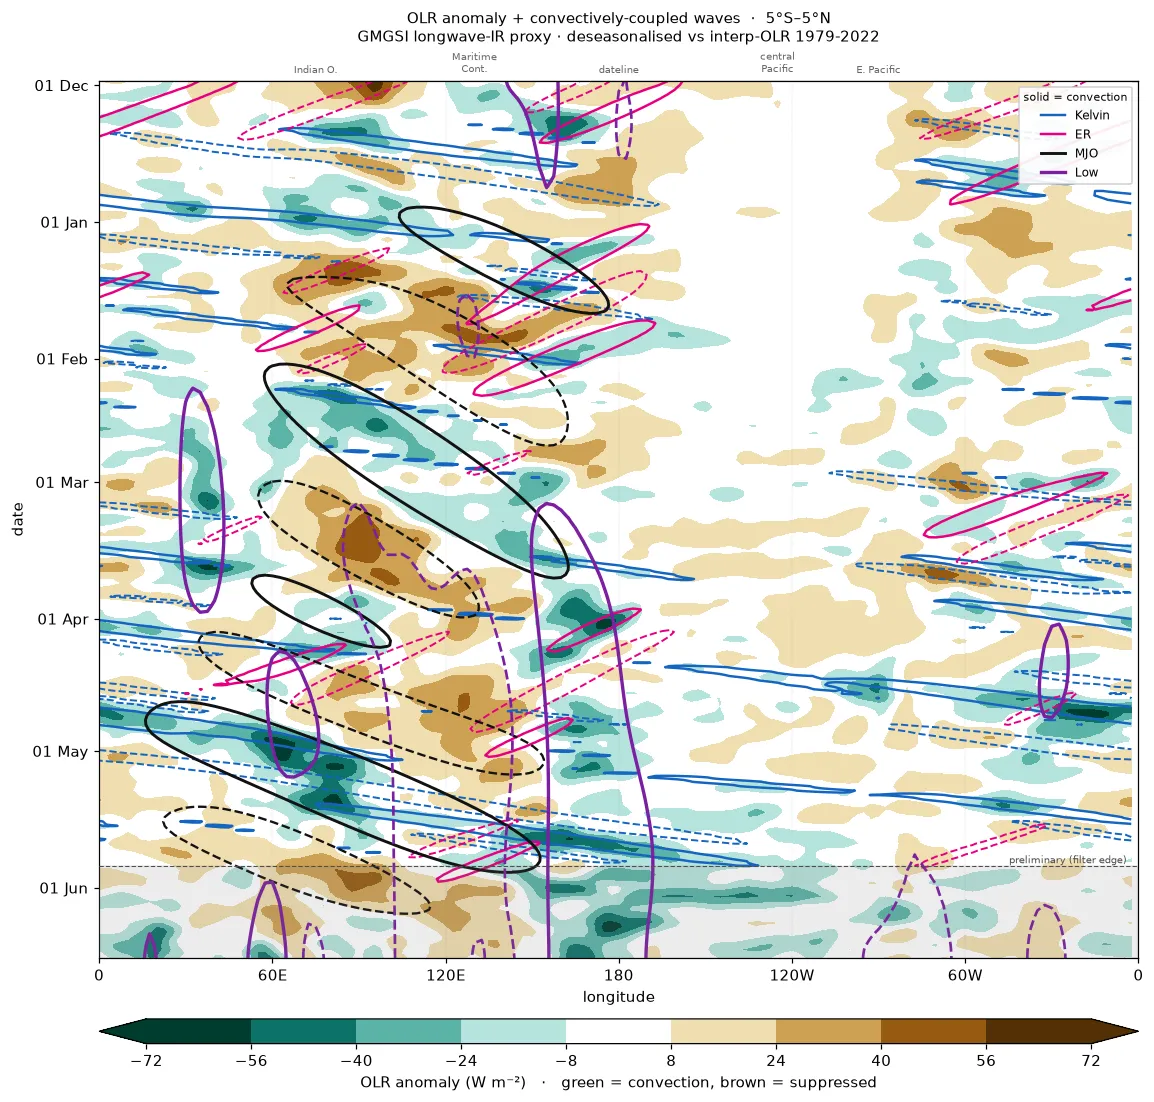
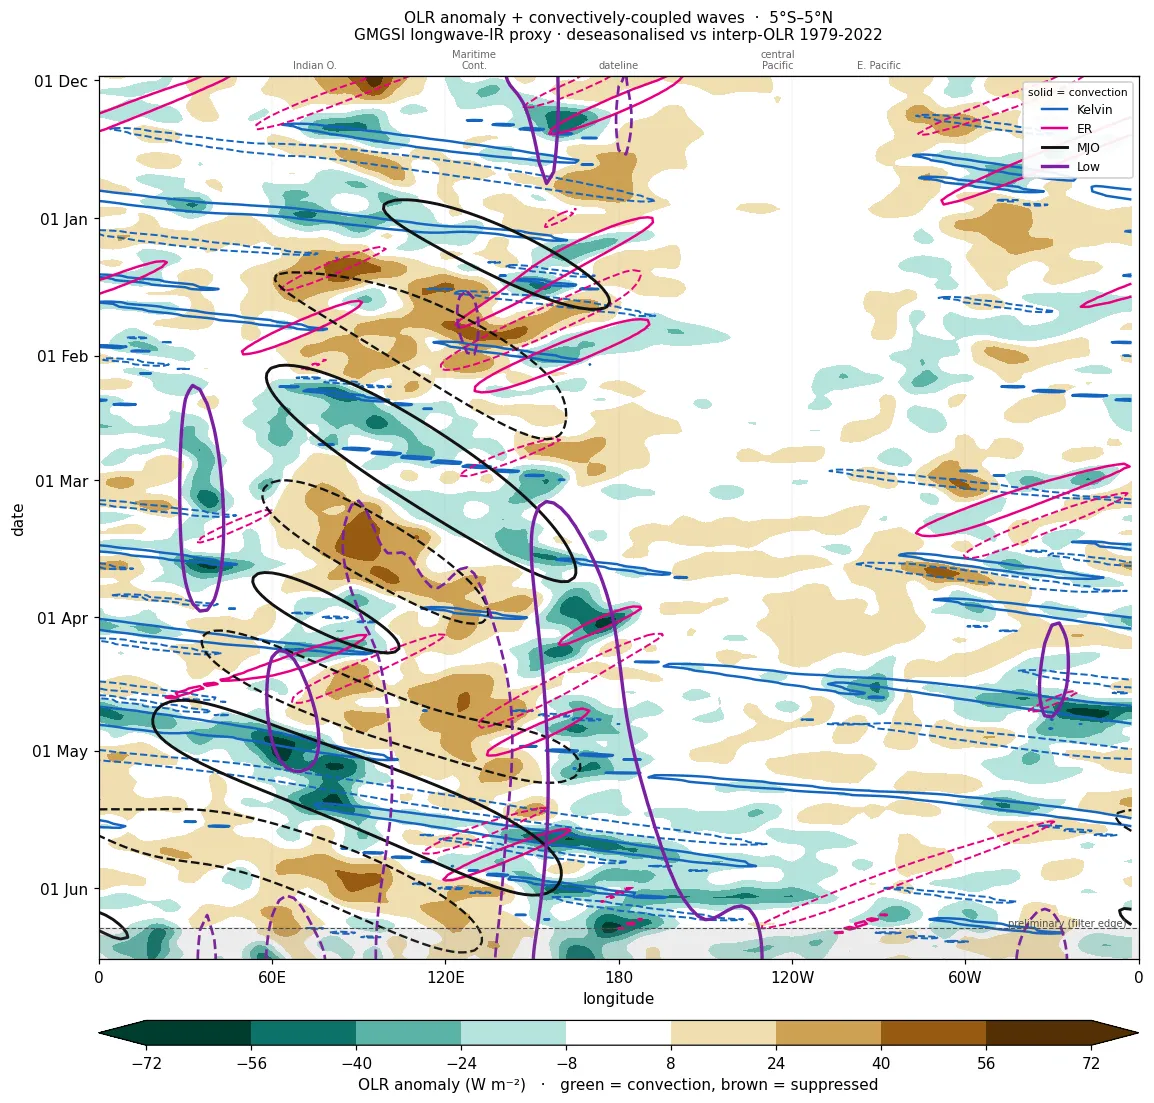
OLR waves: reflect-pad the time axis so wave bandpass extends to the present (filter edge 21→7 days); ASCAT: require >50% coverage so a partial NRT slot can't collapse the map

diff --git a/scripts/sst/olr_waves.py b/scripts/sst/olr_waves.py
@@ -236,7 +236,13 @@ def render(anom: xr.DataArray, end: datetime, days: int, out: Path,
     as contours (solid = enhanced convection, dashed = suppressed). LF is a 120-day low-pass."""
     from scipy.ndimage import gaussian_filter
     from matplotlib.colors import BoundaryNorm, ListedColormap
-    filt = {w: (_lf_lowpass(anom.values) if w == "LF" else wk_filter(anom.values, w)) for w in waves}
+    # Reflect-pad both ends of the time axis before filtering so the FFT taper/edge effect falls
+    # on padding rather than real data — this carries the wave bandpass right up to the present
+    # (the recent end is "preliminary" but no longer damped to zero). Crop back after.
+    PAD = 30
+    av = anom.values
+    ext = np.concatenate([av[1:PAD + 1][::-1], av, av[-PAD - 1:-1][::-1]], axis=0)
+    filt = {w: (_lf_lowpass(ext) if w == "LF" else wk_filter(ext, w))[PAD:PAD + len(av)] for w in waves}
     lon = anom["lon"].values                                    # full globe 0-360
     time = anom["time"].values
     sel = (time <= np.datetime64(end)) & (time > np.datetime64(end) - np.timedelta64(days, "D"))
@@ -300,7 +306,7 @@ def main(argv=None) -> int:
         rt = xr.open_dataset(STORE_RT)
         anom = _anomaly_rt(rt, clim, "05")
         end = pd.Timestamp(anom["time"].values[-1]).to_pydatetime()
-        render(anom, end, min(args.days, 360), Path(args.out), prelim_days=21,
+        render(anom, end, min(args.days, 360), Path(args.out), prelim_days=7,
                subtitle="GMGSI longwave-IR proxy · deseasonalised vs interp-OLR 1979-2022")
     else:
         clim = xr.open_dataset(HIST)

diff --git a/scripts/sst/sst_ascat_winds.py b/scripts/sst/sst_ascat_winds.py
@@ -105,7 +105,10 @@ def daily_means(n_days: int):
             dsd = ds.sel(time=str(day.date())).mean("time").compute()   # daily mean
         except Exception:                               # noqa: BLE001
             continue
-        if np.isfinite(dsd["eastward_wind"].values).any():
+        # Require substantial coverage, not just one finite point: the newest NRT slot is
+        # often a partial swath (a sliver of finite data) that passes an .any() check but
+        # renders as a near-empty, collapsed map. Demand the gap-filled L4 be mostly populated.
+        if np.isfinite(dsd["eastward_wind"].values).mean() > 0.5:
             out.append((dsd, day))
         if len(out) >= n_days:
             break
